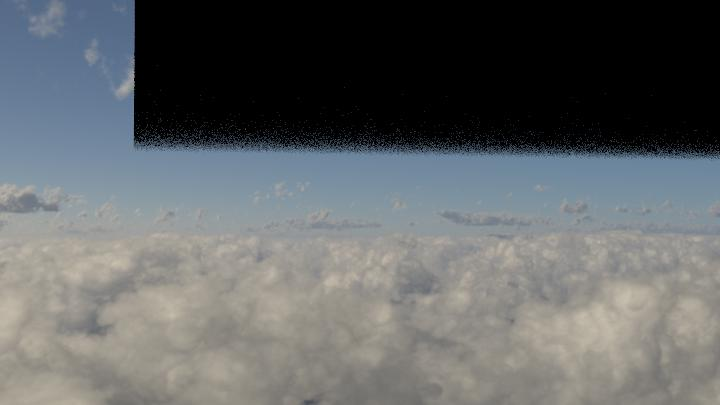
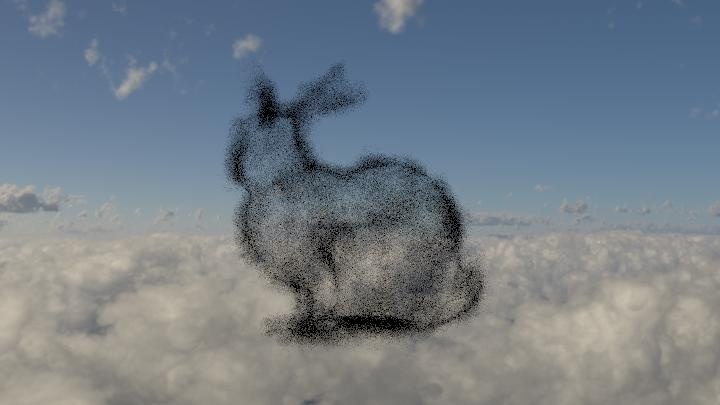
updated trace

diff --git a/libs/yocto/yocto_trace.cpp b/libs/yocto/yocto_trace.cpp
@@ -362,7 +362,9 @@ std::pair<float, vec3f> eval_unidirectional_spectral_mis_NSPI(const scene_data& 
     auto p                = one3f;
     auto cc               = clamp((int)(rand1f(rng) * 3), 0, 2);
     auto current_pos      = ray.o; 
-    auto majorant_density = max_density;
+    auto majorant_density = mean(vsdf.scattering * max_density);
+    //cout << "scattering " << vsdf.scattering.x << endl;
+    //auto majorant_density = max_density;
     auto tr               = one3f;
 
     while (true) {
@@ -376,16 +378,21 @@ std::pair<float, vec3f> eval_unidirectional_spectral_mis_NSPI(const scene_data& 
       auto d = eval_vpt_density(volume, current_pos);
       //printf("eval_vpt_density\n");
       auto sigma_t     = vec3f{d, d, d};
+      //auto sigma_s     = sigma_t * vsdf.scattering;
       auto sigma_s     = sigma_t * vsdf.scattering;
-      auto sigma_a     = sigma_t - sigma_s;
+      //auto sigma_a     = sigma_t - sigma_s;
+      auto sigma_a     = sigma_t * (one3f - vsdf.scattering);
       auto sigma_n     = vec3f{max_density, max_density, max_density} - sigma_t;
-      vec3f sigma[3] = { sigma_n, sigma_s, sigma_a };
+      //vec3f sigma[3] = { sigma_n, sigma_s, sigma_a };
+      vec3f sigma[3] = { sigma_n, vsdf.scattering, 1.0 - vsdf.scattering };
  
-      tr *= exp(-sigma_t * path_length); 
+      //r *= exp(-sigma_t * path_length); 
+      tr *= one3f - sigma_t * imax_density;
       // Sample event 
+      
       material_event e = sample_event(sigma_a[cc] * imax_density,  sigma_s[cc] * imax_density, sigma_n[cc] * imax_density, rand1f(rng));
 
-      if (e == material_event::null) continue;  // TO DO: double check questo if che non mi convice
+      if (e == material_event::null) continue;  
 
       if (e == material_event::null) f *= sigma[0];
       else if (e == material_event::scatter) f *= sigma[1];
@@ -393,19 +400,21 @@ std::pair<float, vec3f> eval_unidirectional_spectral_mis_NSPI(const scene_data& 
       p  = f;
       
       // Populate vsdf with medium interaction information and return
+      if (e == material_event::absorb || e == material_event::scatter) {
       vsdf.event = e;
       vsdf.density = sigma_t;
       f *= tr;
-      f = f / mean(p);       
+      //f = f / mean(p);       
       break;
+      }
     }    
     
-    return {path_length, f };
+    return {path_length, f/mean(p) };
 }
 
   
 // Evaluate material
-void eval_volume_material(material_point& point, const scene_data& scene,
+material_point eval_volume_material(const scene_data& scene,
     const instance_data& instance, int element, const vec2f& uv) {
   
   auto& material = scene.materials[instance.material];
@@ -415,6 +424,7 @@ void eval_volume_material(material_point& point, const scene_data& scene,
   auto emission_tex = eval_texture(
       scene, material.emission_tex, texcoord, true);
   auto color_shp     = eval_color(scene, instance, element, uv);
+
   auto color_tex     = eval_texture(scene, material.color_tex, texcoord, true);
   auto roughness_tex = eval_texture(
       scene, material.roughness_tex, texcoord, false);
@@ -422,7 +432,7 @@ void eval_volume_material(material_point& point, const scene_data& scene,
       scene, material.scattering_tex, texcoord, true);
 
   // material point
-  //auto point         = material_point{};
+  auto point         = material_point{};
   point.type         = material.type;
   point.emission     = material.emission * xyz(emission_tex) * xyz(color_shp);
   point.color        = material.color * xyz(color_tex) * xyz(color_shp);
@@ -449,20 +459,21 @@ void eval_volume_material(material_point& point, const scene_data& scene,
       point.density = {0, 0, 0};
     }
   }
-  // fix roughness
-  if (point.type == material_type::matte ||
-      point.type == material_type::gltfpbr ||
-      point.type == material_type::glossy) {
-    point.roughness = clamp(point.roughness, min_roughness, 1.0f);
-  } else if (material.type == material_type::volumetric) {
-    point.roughness = 0;
-  } else {
-    if (point.roughness < min_roughness) point.roughness = 0;
-  }
+
+  //fix roughness
+  // if (point.type == material_type::matte ||
+  //     point.type == material_type::gltfpbr ||
+  //     point.type == material_type::glossy) {
+  //   point.roughness = clamp(point.roughness, min_roughness, 1.0f);
+  // } else if (material.type == material_type::volumetric) {
+  //   point.roughness = 0;
+  // } else {
+  //   if (point.roughness < min_roughness) point.roughness = 0;
+  // }
   
   //cout << "eval volume material: " <<  << " " << point.volume->bbox.y << " " << point.volume->bbox.z << endl;
   
-  //return point;
+  return point;
 }
 
 /**
@@ -517,6 +528,8 @@ const trace_params& params, rng_state& rng){
 
 }
 */
+
+
 
 static vec3f eval_scattering(const material_point& material,
     const vec3f& outgoing, const vec3f& incoming) {
@@ -1357,6 +1370,7 @@ static trace_result trace_path_volume_vpt(const scene_data& scene,
         auto [t, w] = eval_unidirectional_spectral_mis_NSPI(
             scene, vsdf, intersection.distance, rng, ray);
         weight *= w;
+        //cout<< "weight "<< weight.x << " " << weight.y << " " << weight.z << endl;
         position = ray.o + t * ray.d;
         // Handle an interaction with a medium
         if (t < intersection.distance) {
@@ -1367,11 +1381,13 @@ static trace_result trace_path_volume_vpt(const scene_data& scene,
           if (vsdf.event == material_event::absorb) {
             auto er = zero3f;
               //Check about emission
-            /*
-            if (has_emission(vsdf)) {
-              er = blackbody_to_rgb(eval_vpt_emission(vsdf, position) * 40e3);
-            */
             
+            // TO DO: check this
+
+            if (has_emission(vsdf)) {
+                er = blackbody_to_rgb(eval_vpt_emission(scene.volumes[vsdf.volume_id], position) * 40e3);
+            }
+            //er = {10, 10, 10};
             //radiance += weight * er * vsdf.volume->radiance_mult;
             radiance += weight * er * scene.volumes[vsdf.volume_id].radiance_mult;
             break;
@@ -1447,10 +1463,13 @@ static trace_result trace_path_volume_vpt(const scene_data& scene,
       // update volume stack
       if (is_volumetric(scene, intersection) &&
           dot(normal, outgoing) * dot(normal, incoming) < 0) {
+
+        if (is_volumetric(scene, intersection)) bounce -= 1;
+        
         if (volume_stack.empty()) {
           //auto material = eval_material(scene, intersection);
-          auto material = material_point{};
-          eval_volume_material(material, scene, scene.instances[intersection.instance],intersection.element, intersection.uv);
+          //auto material = material_point{};
+          auto material = eval_volume_material(scene, scene.instances[intersection.instance],intersection.element, intersection.uv);
           //volume_data vol = *material.volume;
           //cout << "bbox dopo eval volume material " << vol.bbox.x << endl;
           // TO DO : fix bbox values after eval volume
@@ -1471,24 +1490,27 @@ static trace_result trace_path_volume_vpt(const scene_data& scene,
       
       // accumulate emission
       //radiance += weight * eval_volemission(emission, outgoing);
-      radiance += weight * vsdf.emission;    // TO D
+      //radiance += weight * vsdf.emission;   
 
       // next direction
-      auto incoming = vec3f{0, 0, 0};
-      if (rand1f(rng) < 0.5f) {
-        incoming = sample_scattering(vsdf, outgoing, rand1f(rng), rand2f(rng));
-      } else {
-        incoming = sample_lights(
-            scene, lights, position, rand1f(rng), rand1f(rng), rand2f(rng));
+      hit = true;
+      if (!vsdf.htvolume) {
+        auto incoming = vec3f{0, 0, 0};
+        if (rand1f(rng) < 0.5f) {
+          incoming = sample_scattering(vsdf, outgoing, rand1f(rng), rand2f(rng));
+        } else {
+          incoming = sample_lights(
+              scene, lights, position, rand1f(rng), rand1f(rng), rand2f(rng));
+        }
+        if (incoming == vec3f{0, 0, 0}) break;
+        weight *=
+            eval_scattering(vsdf, outgoing, incoming) /
+            (0.5f * sample_scattering_pdf(vsdf, outgoing, incoming) +
+                0.5f * sample_lights_pdf(scene, bvh, lights, position, incoming));
+        
+        // setup next iteration
+        ray = {position, incoming};
       }
-      if (incoming == vec3f{0, 0, 0}) break;
-      weight *=
-          eval_scattering(vsdf, outgoing, incoming) /
-          (0.5f * sample_scattering_pdf(vsdf, outgoing, incoming) +
-              0.5f * sample_lights_pdf(scene, bvh, lights, position, incoming));
-
-      // setup next iteration
-      ray = {position, incoming};
     }
 
     // check weight
@@ -1501,10 +1523,10 @@ static trace_result trace_path_volume_vpt(const scene_data& scene,
       weight *= 1 / rr_prob;
     }
   }
+  //cout << "hit_albedo" << hit_albedo.x << endl;
   return {radiance, hit, hit_albedo, hit_normal};
 }
-
-
+    
 
 // Eyelight for quick previewing.
 static trace_result trace_eyelight(const scene_data& scene,
@@ -2417,6 +2439,7 @@ void trace_sample(trace_state& state, const scene_data& scene,
            rand2f(state.rngs[idx]), rand2f(state.rngs[idx]), params.tentfilter);
   auto [radiance, hit, albedo, normal] = sampler(
       scene, bvh, lights, ray, state.rngs[idx], params);
+  cout << "normal: " << normal.x << endl;
   if (!isfinite(radiance)) radiance = {0, 0, 0};
   if (max(radiance) > params.clamp)
     radiance = radiance * (params.clamp / max(radiance));

diff --git a/libs/yocto/yocto_sceneio.cpp b/libs/yocto/yocto_sceneio.cpp
@@ -1279,6 +1279,7 @@ bool load_volume(const string& filename, volume_data& vol, string& error) {
   vol.bbox = {w,h,d};
   vol.components = ncomp;
   vol.density_vol = voxels;
+  vol.max_voxel = *std::max_element(voxels.begin(), voxels.end());
   //cout << "riga 1001";
   //cout << vol.bbox.x;
   return true;
@@ -3612,12 +3613,28 @@ static bool load_json_scene_version40(const string& filename,
         auto& volume = scene.volumes.emplace_back();
         scene.volume_names.emplace_back(key);
         volume_map[key] = (int)scene.volumes.size() - 1;
+        /*
+        TO DO:  test
+        string density_vol_name;
+        string emission_vol_name;
+        get_opt(element, "density_vol", density_vol_name);
+        get_opt(element, "emission_vol", emission_vol_name)
+
+        if (density_vol_name != ""):
+          scene.volume_names.emplace_back(density_vol_name);
+
+        if (emission_vol_name != ""):
+          scene.volume_names.emplace_back(emission_vol_name);
+
+        */
+
         //get_opt(element, "uri", uri);
         get_opt(element, "frame", volume.frame);
         get_opt(element, "scale_vol", volume.scale_vol);
         get_opt(element, "offset_vol", volume.offset_vol);
-        get_opt(element, "density_mul", volume.density_mult);
-        get_opt(element, "radiance_mul", volume.radiance_mult);
+        get_opt(element, "density_mult", volume.density_mult);
+        
+        //cout << "density mul:" << volume.density_mult << endl;
       }
       //cout << "volumes len after volumes: " << scene.volumes.size() << endl;
     }
@@ -3747,6 +3764,13 @@ static bool load_json_scene_version40(const string& filename,
       auto path = find_path(get_volume_name(scene, volume), "volumes", {".vol"});
       if (!load_volume(path_join(dirname, path), volume, error))
         return dependent_error();
+      /*
+      TO DO:  test
+      auto path_d = find_path(get_volume_name(scene, volume), "volumes", {"_density.vol"});
+      auto path_e = find_path(get_volume_name(scene, volume), "volumes", {"_emission.vol"});
+      if (!load_volume(path_join(dirname, path_d), path_join(dirname, path_e), volume, error))
+        return dependent_error();
+      */
     }
 
   } else {

diff --git a/libs/yocto/yocto_shading.h b/libs/yocto/yocto_shading.h
@@ -303,6 +303,21 @@ inline float eval_vpt_density(const volume_data& volume, const vec3f& uvw) {
          volume.density_mult;
 }
 
+// Evaluate emission  NSPI
+inline float eval_vpt_emission(const volume_data& volume, const vec3f& uvw) {
+    
+    if (volume.emission_vol.empty()) return 0.0f;
+
+    auto oframe   = volume.frame;
+    //auto vol      = volume.emission_vol;
+    auto scale    = volume.scale_vol;
+    auto offset   = volume.offset_vol;
+    auto inv_max  = 1.f / volume.max_voxel;
+
+    auto uvl = transform_point(inverse(oframe), uvw) + offset;
+    return eval_volume(volume, uvl * scale, true, false, true) * inv_max;
+  }
+
 }  // namespace yocto
 
 // -----------------------------------------------------------------------------

diff --git a/libs/yocto/yocto_scene.h b/libs/yocto/yocto_scene.h
@@ -208,10 +208,10 @@ struct volume_data {
     frame3f       frame         = identity3x4f; // NSPI
     vec3f         scale_vol     = {1, 1, 1};    // NSPI
     vec3f         offset_vol    = {0, 0, 0};    // NSPI
-    float         density_mult  = 2.0f;         // NSPI
+    float         density_mult  = 1.0f;         // NSPI
     float         radiance_mult = 1.0f;         // NSPI
     float         max_voxel     = 1.0f;         // NSPI   to adjust
-    vec3f         scattering    = {0,0,0};      // NSPI
+    vec3f         scattering    = {0.9,0.9,0.9};      // NSPI
 
     //vector<material_point> points = vector<material_point>{};
 };
